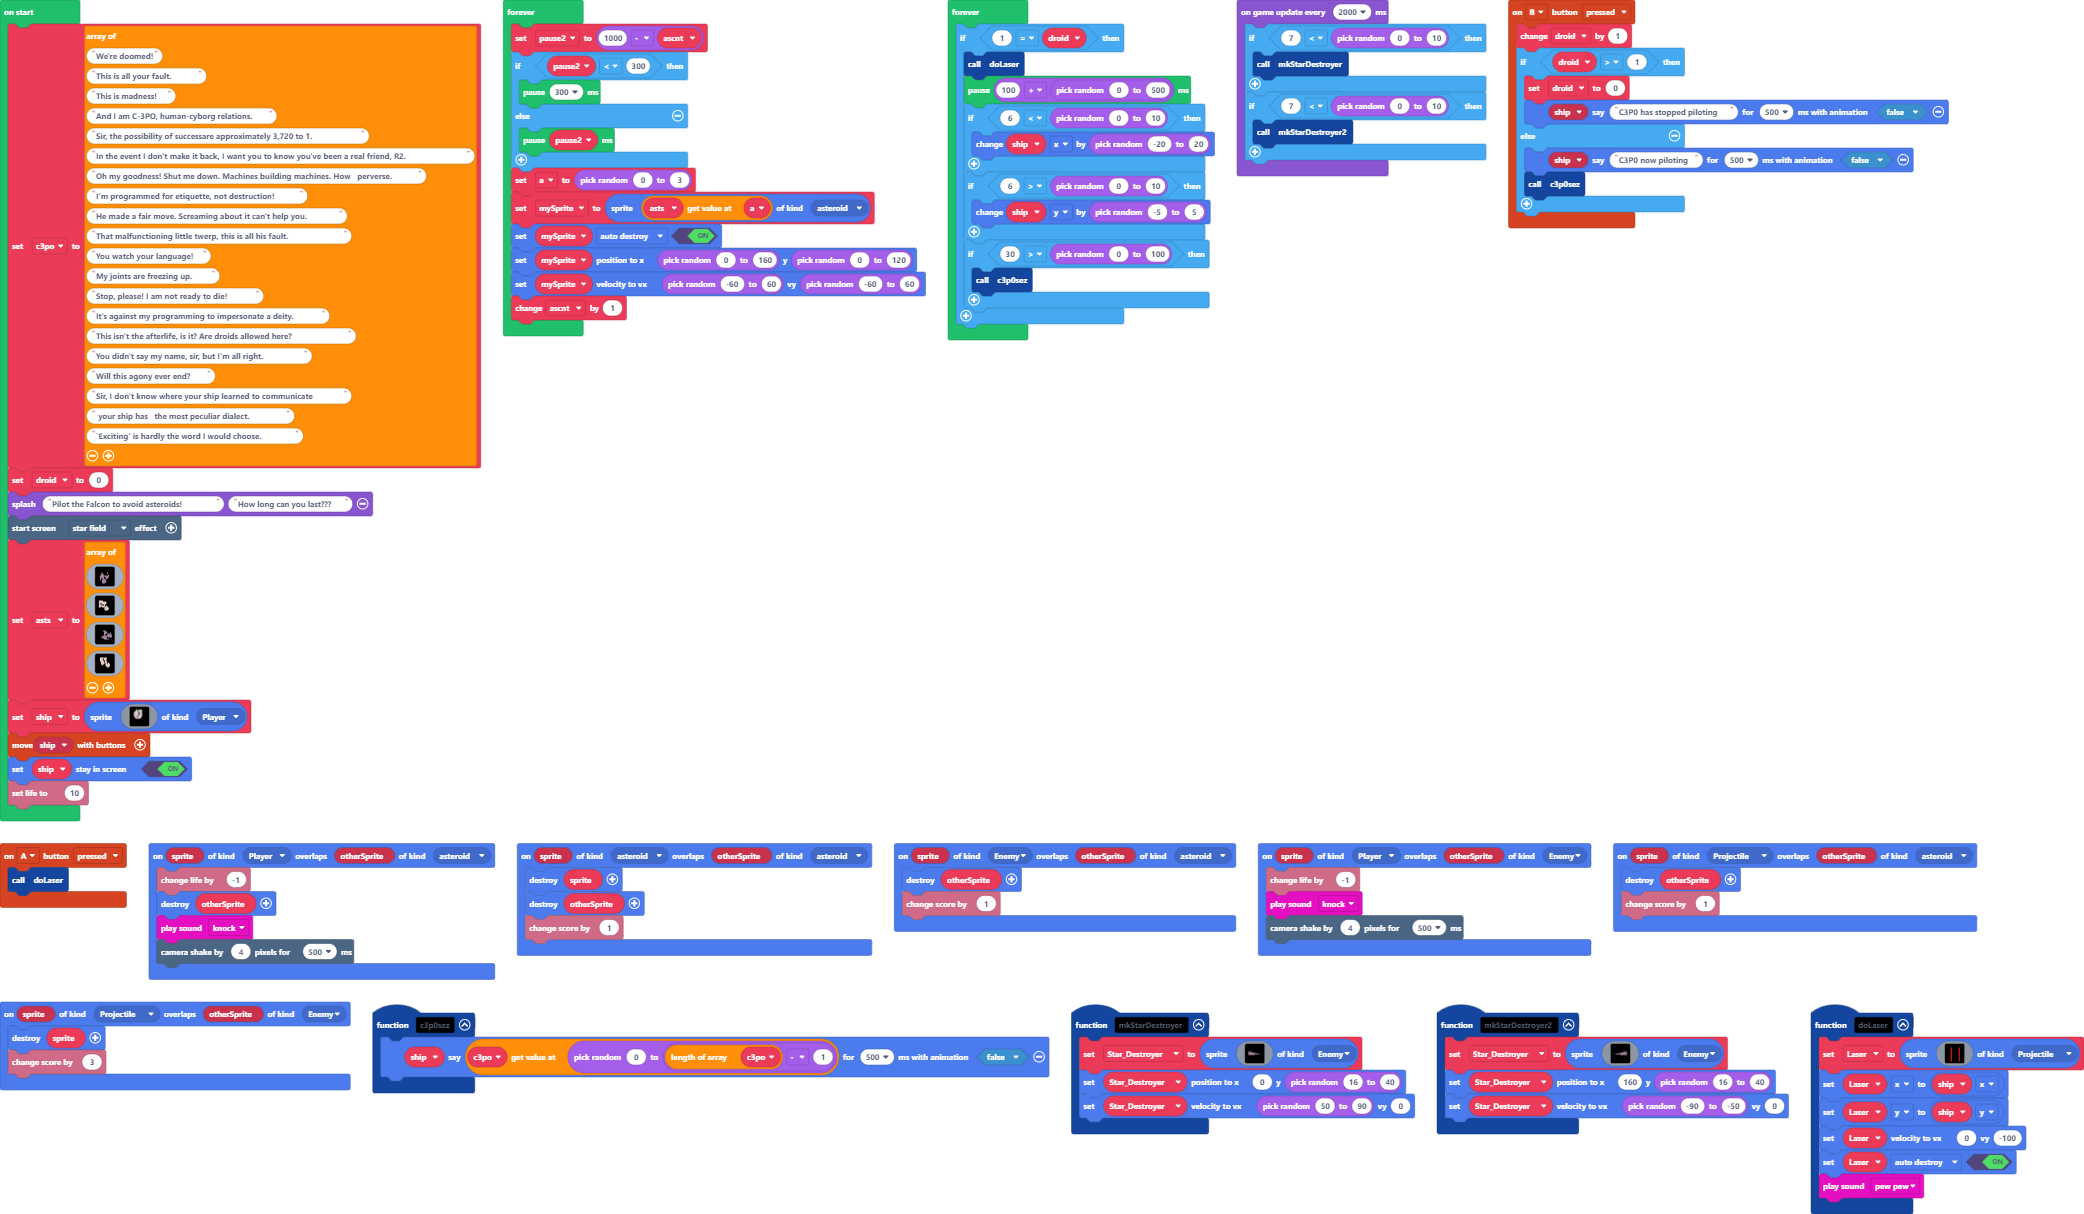
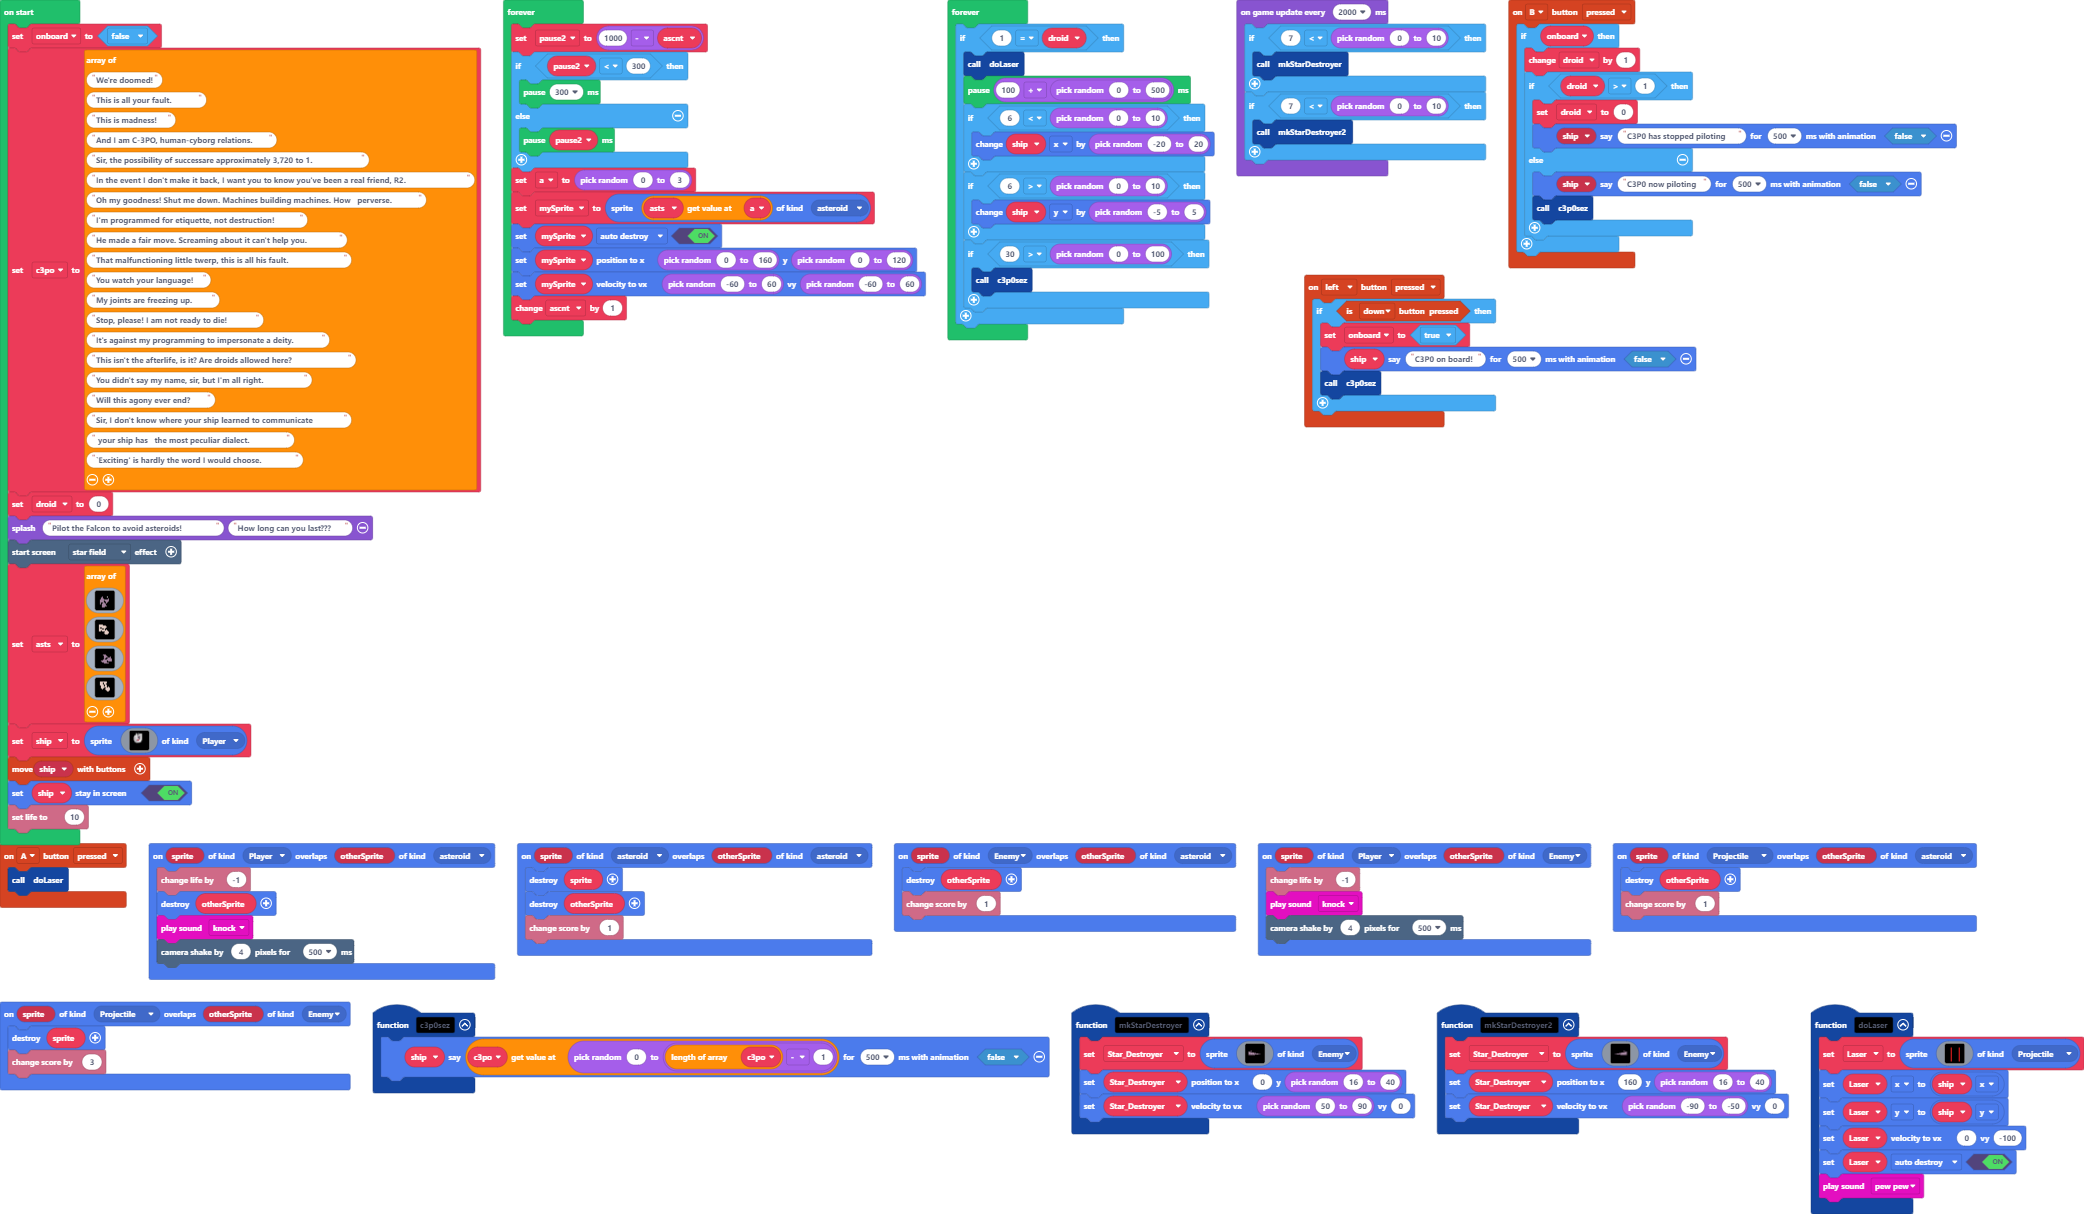
secret way to get c3p0 on board

Changed region(s): [[0.0, 0.0, 0.2495, 0.701], [0.6238, 0.0, 0.9357, 0.3657]]

diff --git a/main.ts b/main.ts
@@ -25,13 +25,15 @@ function mkStarDestroyer () {
     Star_Destroyer.setVelocity(randint(50, 90), 0)
 }
 controller.B.onEvent(ControllerButtonEvent.Pressed, function () {
-    droid += 1
-    if (droid > 1) {
-        droid = 0
-        ship.sayText("C3P0 has stopped piloting", 500, false)
-    } else {
-        ship.sayText("C3P0 now piloting", 500, false)
-        c3p0sez()
+    if (onboard) {
+        droid += 1
+        if (droid > 1) {
+            droid = 0
+            ship.sayText("C3P0 has stopped piloting", 500, false)
+        } else {
+            ship.sayText("C3P0 now piloting", 500, false)
+            c3p0sez()
+        }
     }
 })
 controller.A.onEvent(ControllerButtonEvent.Pressed, function () {
@@ -46,6 +48,13 @@ sprites.onOverlap(SpriteKind.Player, SpriteKind.asteroid, function (sprite, othe
 sprites.onOverlap(SpriteKind.Enemy, SpriteKind.asteroid, function (sprite, otherSprite) {
     otherSprite.destroy()
     info.changeScoreBy(1)
+})
+controller.left.onEvent(ControllerButtonEvent.Pressed, function () {
+    if (controller.down.isPressed()) {
+        onboard = true
+        ship.sayText("C3P0 on board!", 500, false)
+        c3p0sez()
+    }
 })
 sprites.onOverlap(SpriteKind.asteroid, SpriteKind.asteroid, function (sprite, otherSprite) {
     sprite.destroy()
@@ -124,6 +133,8 @@ let Star_Destroyer: Sprite = null
 let ship: Sprite = null
 let droid = 0
 let c3po: string[] = []
+let onboard = false
+onboard = false
 c3po = [
 "We're doomed!",
 "This is all your fault.",
